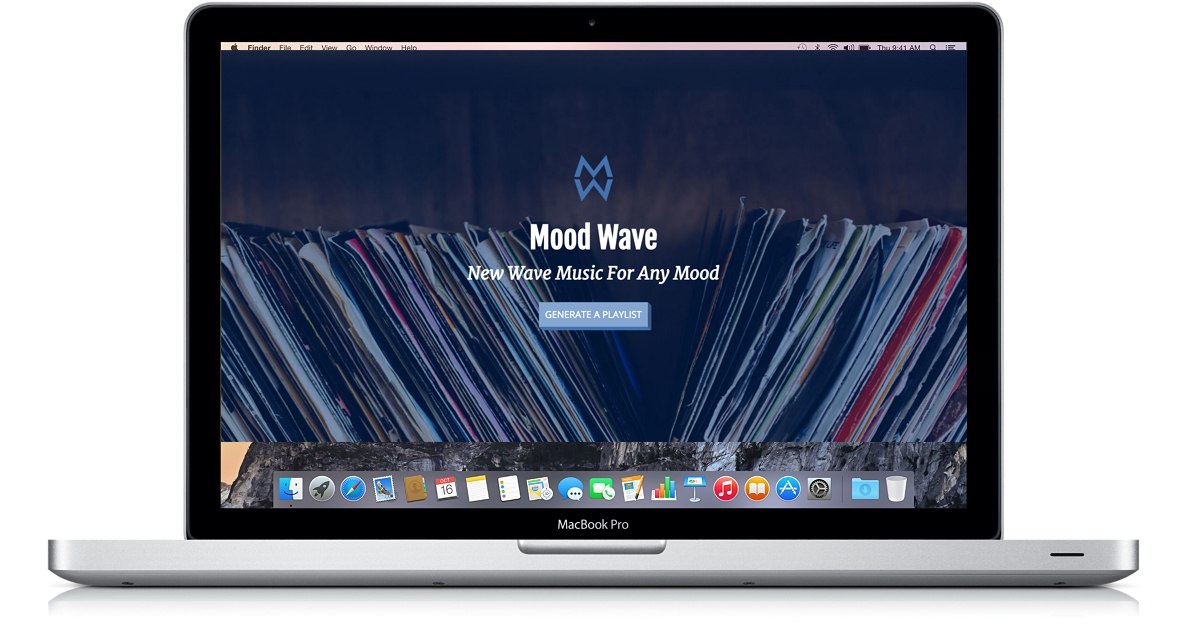
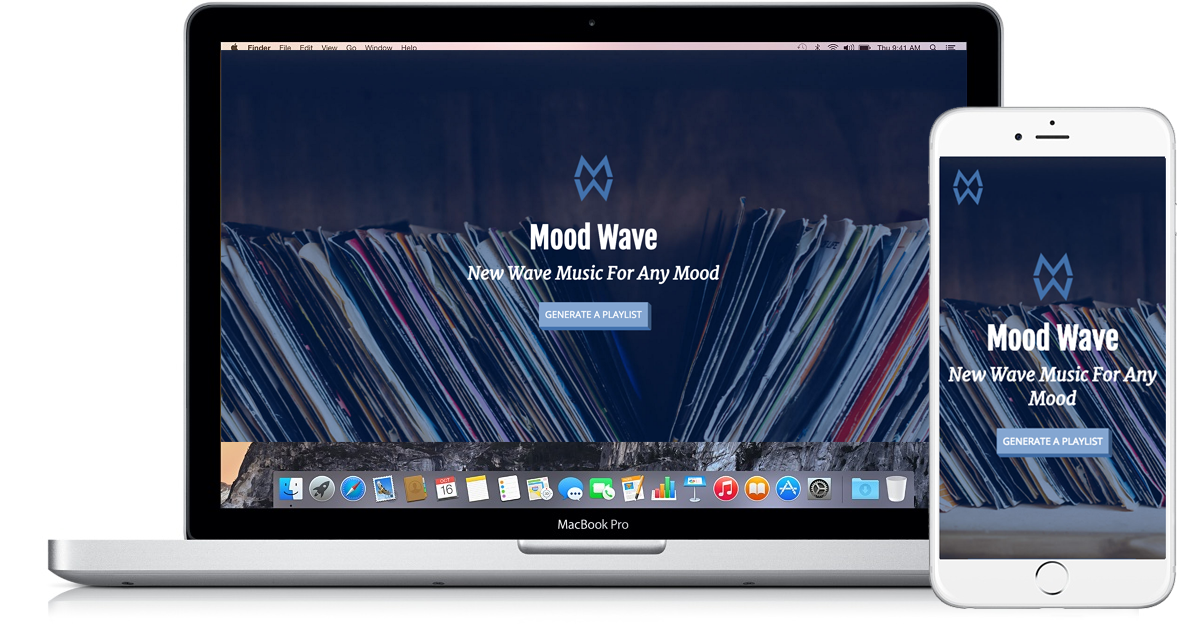
Adds responsive view to Mood Wave app page

Changed region(s): [[0.7708, 0.1508, 0.9867, 0.9651]]

diff --git a/db/seeds.rb b/db/seeds.rb
@@ -46,11 +46,13 @@ moodWave = Project.create(
   name: "Mood Wave",
   description_one: "For our final project, we had free reign to create an application on any topic and using any technologies that we wished. As a Javascript enthusiast, the decision to make a MEAN stack application was easy. I decided I wanted to make a New Wave music application in an attempt to introduce my generation to the greatest genre of music out there.",
   description_two: "I used the LastFM API in order to create my playlists, and each mood returns a list of seven New Wave songs to suit your current state of mind. To accomplish this, I created seed data for all the different moods, and each mood is associated with a song that accurately represents it. For instance, the mood 'Excited' is associated with the song Electricity by Orchestral Manouevers in the Dark.",
-  description_three: "Full disclosure, there are a lot of things I would like to do to further improve Mood Wave. For step one, I would love to create more moods to choose from and finish up the responsive design. Ultimately, I'd like to develop a better way to integrate the LastFM API to allow for more flexibility and randomization of the returned playlists.",
+  description_three: "Ideally, I want to update the app to produce a randomized playlist for each mood, so you can return to the application and get a new playlist for the same mood at will.",
   image_one_url: "moodWave/homepage.png",
   image_two_url: "moodWave/moodsLanding.png",
   image_three_url: "moodWave/moodDetail.png",
   thumbnail: "moodWave.png",
+  githubURL: "https://github.com/caitlindaitch/moodWave",
+  URL: "https://mood-wave.herokuapp.com"
 )
 
 fontConcentration = Project.create(
